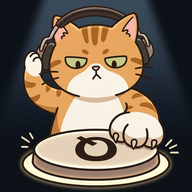
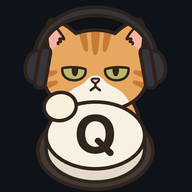
app: 홈 화면 아이콘을 아이콘 전용 뀨 그림으로(여백 줄여 1.15배, 원 모양은 원본), 공유 그림은 큐버튼 장면 그대로

diff --git a/docs/art/make-icons.py b/docs/art/make-icons.py
@@ -1,28 +1,30 @@
+# 뀨 그림 두 장 → 앱 아이콘·공유 그림. 실행: python docs/art/make-icons.py (duckq-board 폴더에서)
+# 아이콘 = kkyu-icon-1024.png(아이콘 전용 그림), 공유 그림 = kkyu-cue-1024.png(큐버튼 장면)
 import os
 from PIL import Image, ImageDraw, ImageFont, ImageFilter
 
-SRC = r"C:\Users\bau85\OneDrive - 한울초등학교 (1)\code\deokgu-lab\stickers\_ref\받은그림\큐버튼.png"
-APP = r"C:\Users\bau85\OneDrive - 한울초등학교 (1)\code\duckq-board\app"
-PV = r"C:\Users\bau85\AppData\Local\Temp\claude\C--Users-bau85-OneDrive-----------1--code-duckq-board\43bf2940-c08b-4bf3-aea9-14f6016897e9\scratchpad\preview2.png"
+HERE = os.path.dirname(os.path.abspath(__file__))
+APP = os.path.join(HERE, "..", "..", "app")
 BG = (13, 17, 24)
 
-src = Image.open(SRC).convert("RGB")
+# 홈 화면 아이콘: 여백을 줄여 1.15배로 키움(버튼·헤드폰은 안 잘림)
+icon = Image.open(os.path.join(HERE, "kkyu-icon-1024.png")).convert("RGB")
+tight = icon.crop((70, 50, 960, 940))
 for n, s in (("icon-kkyu-512.png", 512), ("icon-kkyu-192.png", 192), ("apple-touch-icon-kkyu.png", 180)):
-    src.resize((s, s), Image.LANCZOS).save(os.path.join(APP, n), optimize=True)
+    tight.resize((s, s), Image.LANCZOS).save(os.path.join(APP, n), optimize=True)
 
-# maskable: shrink so the whole scene sits inside the launcher's safe circle
+# 안드로이드 원 모양: 가장자리가 잘리니 원본을 조금 더 줄여 안전한 원 안에
 m = Image.new("RGB", (1024, 1024), BG)
-k = 0.80
-sm = src.resize((int(1024 * k), int(1024 * k)), Image.LANCZOS)
+sm = icon.resize((920, 920), Image.LANCZOS)
 mask = Image.new("L", sm.size, 0)
-ImageDraw.Draw(mask).rectangle([40, 40, sm.width - 40, sm.height - 40], fill=255)
-mask = mask.filter(ImageFilter.GaussianBlur(28))
-m.paste(sm, ((1024 - sm.width) // 2, (1024 - sm.height) // 2 + 20), mask)
+ImageDraw.Draw(mask).rectangle([30, 30, sm.width - 30, sm.height - 30], fill=255)
+m.paste(sm, (52, 40), mask.filter(ImageFilter.GaussianBlur(20)))
 m.resize((512, 512), Image.LANCZOS).save(os.path.join(APP, "icon-kkyu-maskable.png"), optimize=True)
 
-# share card 1200x630: picture left, words right; fade the picture's right edge into the background
+# 공유 그림 1200x630: 왼쪽 큐버튼 장면, 오른쪽 글
+cue = Image.open(os.path.join(HERE, "kkyu-cue-1024.png")).convert("RGB")
 og = Image.new("RGB", (1200, 630), BG)
-pic = src.resize((630, 630), Image.LANCZOS)
+pic = cue.resize((630, 630), Image.LANCZOS)
 fade = Image.new("L", (630, 630), 255)
 fd = ImageDraw.Draw(fade)
 for x in range(560, 630):
@@ -35,18 +37,4 @@ f = ImageFont.truetype(r"C:\Windows\Fonts\malgun.ttf", 32)
 d.text((694, 392), "설치 없이", font=f, fill=(139, 144, 152))
 d.text((694, 438), "폰 · 태블릿 · 노트북", font=f, fill=(139, 144, 152))
 og.save(os.path.join(APP, "og-kkyu.png"), optimize=True)
-
-# preview sheet
-pv = Image.new("RGB", (1240, 960), (40, 44, 52))
-pv.paste(og, (20, 20))
-x = 20
-full = src
-mk = Image.open(os.path.join(APP, "icon-kkyu-maskable.png"))
-for s in (256, 120, 60):
-    ic = full.resize((s, s), Image.LANCZOS)
-    r = Image.new("L", (s, s), 0); ImageDraw.Draw(r).rounded_rectangle([0, 0, s, s], radius=s * .22, fill=255)
-    pv.paste(ic, (x, 670), r); x += s + 30
-    ic2 = mk.resize((s, s), Image.LANCZOS)
-    c = Image.new("L", (s, s), 0); ImageDraw.Draw(c).ellipse([0, 0, s, s], fill=255)
-    pv.paste(ic2, (x, 670), c); x += s + 50
-pv.save(PV)
+print("ok")

diff --git a/docs/PLAN-share-icon.md b/docs/PLAN-share-icon.md
@@ -9,4 +9,7 @@
 ## 진짜 그림으로 교체 (2026-09-30, dev)
 - 안티그래비티 그림 `docs/art/kkyu-cue-1024.png`(원본은 deokgu-lab/stickers/_ref/받은그림/큐버튼.png). 크기별 자르기는 `docs/art/make-icons.py`.
 - 새 이름으로 교체(카톡 옛 미리보기 기억 때문): `og-kkyu.png` · `icon-kkyu-192/512.png` · `icon-kkyu-maskable.png`(원 모양용, 80%로 줄이고 가장자리 흐리게) · `apple-touch-icon-kkyu.png`. 임시 그림 4장은 지움.
+- 아이콘은 전용 그림으로 따로(2026-09-30 소유자): `docs/art/kkyu-icon-1024.png`(원본 받은그림/앱아이콘.png). 큐버튼 장면은 작은 칸에 정보가 너무 많아서 공유 그림에만 씀.
+  - Q 버튼 크기는 그대로(40px에서도 Q가 제일 또렷, 줄이면 뭉개짐). 대신 여백을 줄여 **1.15배**로 키움. 원 모양(안드로이드)은 가장자리가 잘리니 원본을 조금 줄여 씀.
+  - 기각: 1.3배(헤드폰이 칸 끝에 닿아 답답), 원본 그대로(다른 앱 사이에서 작아 보임).
 - 남은 것: 배포 후 카톡·폰 확인. 그 다음 이 PLAN 완료.
